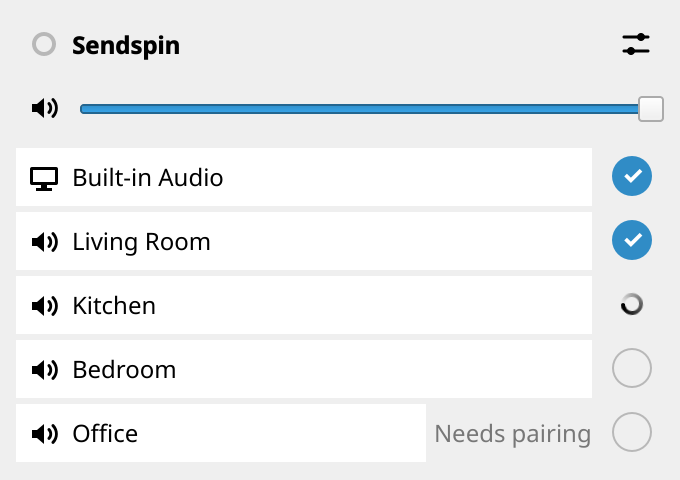
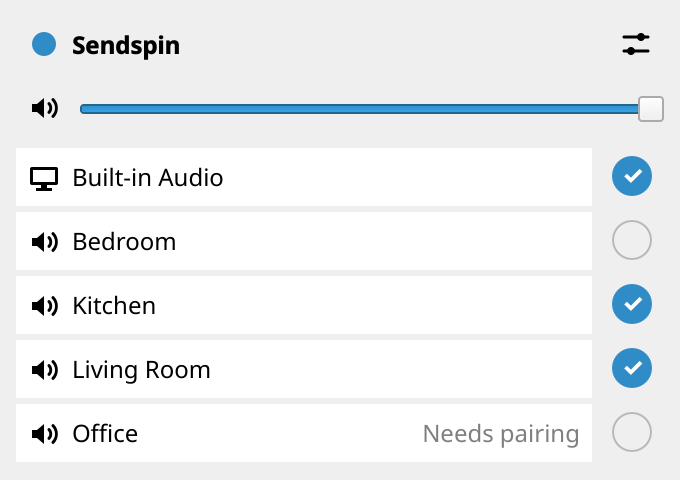
Review: the row keeps its width beside a status, a playing picture, the CI build
The status caption sat beside the row's name, which shrank to make room.
The picker's picture is now the real engine with stand-in speakers and a
tone, so its dot agrees with its rows. GitHub's runners refuse the
builder's FUSE mount.

diff --git a/src/picker/qml/OutputRow.qml b/src/picker/qml/OutputRow.qml
@@ -45,6 +45,7 @@ RowLayout {
     ItemDelegate {
         id: label
 
+        objectName: "name"
         Layout.fillWidth: true
         text: row.name
         icon.name: row.iconName
@@ -54,13 +55,21 @@ RowLayout {
 
         Accessible.name: row.accessibleName
         Accessible.description: qsTr("Play here only")
-    }
 
-    Label {
-        objectName: "status"
-        visible: text !== ""
-        text: row.warning ? qsTr("⚠ %1").arg(row.statusText) : row.statusText
-        color: palette.placeholderText
+        // Inside the row, which keeps its width whatever the status says
+        rightPadding: status.text !== "" ? status.implicitWidth + 2 * padding : padding
+
+        Label {
+            id: status
+
+            objectName: "status"
+            anchors.right: parent.right
+            anchors.rightMargin: label.padding
+            anchors.verticalCenter: parent.verticalCenter
+            visible: text !== ""
+            text: row.warning ? qsTr("⚠ %1").arg(row.statusText) : row.statusText
+            color: palette.placeholderText
+        }
     }
 
     AbstractButton {

diff --git a/scripts/render-screenshots.cpp b/scripts/render-screenshots.cpp
@@ -1,22 +1,65 @@
-// The metainfo's screenshots, drawn offscreen: the picker and Settings as the tests load them,
-// over rows that are made up. Nothing is started but PipeWire's listing of this PC's output,
-// so no speaker is dialled and no network is touched. Run by scripts/render-screenshots.sh.
+// The metainfo's screenshots, drawn offscreen from the windows' own QML, as the tests load it.
+// The picker is over the real engine and four stand-in speakers on the loopback interface, with
+// a tone going into the Sendspin output; Settings is over made-up rows. Nothing is advertised
+// or looked for, so no network is touched. Run by scripts/render-screenshots.sh.
 
 #include "app.h"
+#include "cast/test_peer.h"
 #include "picker/picker.h"
 #include "picker/picker_window.h"
 
 #include <QApplication>
+#include <QFile>
+#include <QProcess>
 #include <QSettings>
 #include <QStyleHints>
 #include <QTemporaryDir>
 #include <QTest>
+#include <QtEndian>
 
+#include <cmath>
 #include <cstdio>
+#include <numbers>
 
 using speaker_menu::Connection;
 
 namespace {
+
+constexpr int WAIT_MS = 15000;
+
+int fail(const char* what) {
+    std::fprintf(stderr, "render-screenshots: %s\n", what);
+    return 1;
+}
+
+bool save(QQuickWindow* window, const QString& path) {
+    // A frame or two for the icons and the layout to settle
+    QTest::qWait(500);
+    return window != nullptr && window->grabWindow().save(path);
+}
+
+/// A minute of a 440 Hz tone: 48 kHz, 16-bit, stereo
+bool write_tone(const QString& path) {
+    constexpr quint32 RATE = 48000;
+    constexpr quint32 BYTES = RATE * 60 * 4;
+    QByteArray wav;
+    QDataStream out(&wav, QIODevice::WriteOnly);
+    out.setByteOrder(QDataStream::LittleEndian);
+    out.writeRawData("RIFF", 4);
+    out << quint32{36 + BYTES};
+    out.writeRawData("WAVEfmt ", 8);
+    out << quint32{16} << quint16{1} << quint16{2} << RATE << quint32{RATE * 4} << quint16{4}
+        << quint16{16};
+    out.writeRawData("data", 4);
+    out << BYTES;
+    for (quint32 n = 0; n < RATE * 60; n++) {
+        const auto sample =
+            static_cast<qint16>(8000 * std::sin(2 * std::numbers::pi * 440 * n / RATE));
+        out << sample << sample;
+    }
+    QFile file(path);
+    return file.open(QIODevice::WriteOnly) && file.write(wav) == wav.size();
+}
 
 SpeakerRow speaker(const QString& name, bool paired, const speaker_menu::Output& output) {
     SpeakerRow row;
@@ -31,25 +74,83 @@ SpeakerRow speaker(const QString& name, bool paired, const speaker_menu::Output&
     return row;
 }
 
-/// One of each: playing, connecting, found, and found but not paired
-std::vector<SpeakerRow> speakers() {
-    return {
-        speaker("Living Room", true,
-                {.in_group = true, .plays = true, .connection = Connection::CONNECTED}),
-        speaker("Kitchen", true, {.in_group = true, .connection = Connection::CONNECTING}),
-        speaker("Bedroom", true, {.connection = Connection::WAITING}),
-        speaker("Office", false, {.connection = Connection::NEEDS_PAIRING}),
-    };
+/// The picker with sound going out: two speakers playing, one found, one that wants pairing
+int render_picker(const QString& work, const QString& path) {
+    const std::string data = (work + "/picker").toStdString();
+    const uint16_t ports[] = {free_port(), free_port(), free_port(), free_port()};
+    Peer living_room(work + "/living-room", ports[0], true, "Living Room");
+    Peer kitchen(work + "/kitchen", ports[1], true, "Kitchen");
+    const Peer bedroom(work + "/bedroom", ports[2], true, "Bedroom");
+    const Peer office(work + "/office", ports[3], false, "Office");
+
+    QStringList urls;
+    for (const uint16_t port : ports) {
+        urls.append(QStringLiteral("ws://127.0.0.1:%1/sendspin").arg(port));
+    }
+    {
+        QSettings settings(work + "/picker/cast.ini", QSettings::IniFormat);
+        settings.setValue("speaker_urls", urls);
+    }
+
+    ClientPersistence persistence(data);
+    Outputs outputs;
+    Client client({.name = "Study PC", .port = Client::free_port(), .advertise = false},
+                  &persistence);
+    SendspinOutput output;
+    CastEngine cast(data, output);
+    Picker picker(cast, client, outputs);
+    PickerWindow window(picker, cast);
+    // As the app does: what the Sendspin output captures goes to the speakers
+    output.set_consumer([&cast](const CapturedBlock& block) { cast.feed().take(block); });
+    if (!output.start() || !outputs.start() ||
+        !QTest::qWaitFor([&] { return outputs.local().has_value(); }, WAIT_MS)) {
+        return fail("no PipeWire: run it through scripts/render-screenshots.sh");
+    }
+    if (!cast.start(free_port(), false) ||
+        !QTest::qWaitFor([&] { return cast.speakers()->rows().size() == 4; }, WAIT_MS)) {
+        return fail("the stand-in speakers did not connect");
+    }
+    picker.toggle(living_room.id());
+    picker.toggle(kitchen.id());
+
+    QProcess tone;
+    if (!write_tone(work + "/tone.wav")) {
+        return fail("no tone to play");
+    }
+    tone.start("pw-play", {"--target", "sendspin", work + "/tone.wav"});
+    const bool plays =
+        QTest::qWaitFor([&] { return picker.dot() == Picker::Dot::Plays; }, WAIT_MS) &&
+        QTest::qWaitFor(
+            [&] {
+                return std::ranges::count(cast.speakers()->rows(), true, &SpeakerRow::plays) == 2;
+            },
+            WAIT_MS);
+    if (plays) {
+        window.show();
+    }
+    const bool saved = plays && save(window.window(), path);
+    tone.kill();
+    tone.waitForFinished();
+    return saved ? 0 : fail("the picker never showed Sendspin playing");
 }
 
-bool save(QQuickWindow* window, const QString& path) {
-    // A frame or two for the icons and the layout to settle
-    QTest::qWait(500);
-    if (window == nullptr || !window->grabWindow().save(path)) {
-        std::fprintf(stderr, "render-screenshots: no %s\n", qPrintable(path));
-        return false;
+/// Settings on its Speakers section, no taller than what it shows
+int render_settings(const QString& work, const QString& path) {
+    App app((work + "/settings").toStdString());
+    app.cast()->speakers()->set_rows({
+        speaker("Living Room", true, {.in_group = true, .plays = true}),
+        speaker("Kitchen", true, {.in_group = true, .plays = true}),
+        speaker("Bedroom", true, {.connection = Connection::WAITING}),
+        speaker("Office", false, {.connection = Connection::NEEDS_PAIRING}),
+    });
+    app.showSettings();
+    QQuickWindow* window = app.settings_window();
+    if (window == nullptr) {
+        return fail("Settings did not load");
     }
-    return true;
+    window->setProperty("section", 1);
+    window->setHeight(window->minimumHeight());
+    return save(window, path) ? 0 : fail("no picture of Settings");
 }
 
 }  // namespace
@@ -70,36 +171,9 @@ int main(int argc, char** argv) {
     QSettings::setPath(QSettings::NativeFormat, QSettings::UserScope, dir.path() + "/config");
     QSettings(QStringLiteral("sendspin"), QStringLiteral("sendspin"))
         .setValue("client/name", QStringLiteral("Study PC"));
-    const std::string data = (dir.path() + "/data").toStdString();
 
-    {
-        ClientPersistence persistence(data);
-        Outputs outputs;
-        Client client({.name = "Study PC", .port = Client::free_port(), .advertise = false},
-                      &persistence);
-        SendspinOutput output;
-        CastEngine cast(data, output);
-        Picker picker(cast, client, outputs);
-        PickerWindow window(picker, cast);
-        // Without its output listed the picker has a notice in place of its rows
-        if (!outputs.start() || !QTest::qWaitFor([&] { return outputs.local().has_value(); })) {
-            std::fputs("render-screenshots: no PipeWire output to list\n", stderr);
-            return 1;
-        }
-        cast.speakers()->set_rows(speakers());
-        window.show();
-        if (!save(window.window(), out + "/picker.png")) {
-            return 1;
-        }
+    if (const int failed = render_picker(dir.path(), out + "/picker.png")) {
+        return failed;
     }
-
-    App app(data);
-    app.cast()->speakers()->set_rows(speakers());
-    app.showSettings();
-    QQuickWindow* settings = app.settings_window();
-    if (settings != nullptr) {
-        // Speakers
-        settings->setProperty("section", 1);
-    }
-    return save(settings, out + "/settings.png") ? 0 : 1;
+    return render_settings(dir.path(), out + "/settings.png");
 }

diff --git a/src/picker/picker_test.cpp b/src/picker/picker_test.cpp
@@ -226,6 +226,29 @@ private slots:
         QVERIFY(Rig::find(row, "check")->isEnabled());
     }
 
+    // A status is said inside the row: it takes none of the row's width
+    void aStatusLeavesTheRowItsWidth() {
+        Rig rig;
+        rig.list({{"Kitchen", found(Connection::WAITING)},
+                  {"Office", found(Connection::NEEDS_PAIRING)}});
+        QList<QQuickItem*> names;
+        QList<QQuickItem*> statuses;
+        for (QQuickItem* row : rig.item("rows")->childItems()) {
+            if (row->objectName() == "speakerRow") {
+                names.append(Rig::find(row, "name"));
+                statuses.append(Rig::find(row, "status"));
+            }
+        }
+        QCOMPARE(names.size(), 2);
+        QCOMPARE(statuses[0]->property("text").toString(), "");
+        QCOMPARE(statuses[1]->property("text").toString(), "Needs pairing");
+        QTRY_VERIFY(names[0]->width() > 0);
+        QCOMPARE(names[1]->width(), names[0]->width());
+        QCOMPARE(statuses[1]->parentItem(), names[1]);
+        // And the name stops short of it
+        QVERIFY(names[1]->property("rightPadding").toReal() > statuses[1]->width());
+    }
+
     void aRowFollowsItsSpeaker() {
         Rig rig;
         rig.list({{"Kitchen", added(Connection::CONNECTING)}});

diff --git a/flatpak/FLATHUB.md b/flatpak/FLATHUB.md
@@ -23,8 +23,13 @@ After the first release is published, so that the tarball's URL answers:
 4. When it is merged, Flathub creates `flathub/com.sendspin_audio.Sendspin` and invites the
    submitter, whose GitHub account needs two-factor authentication. The app is published a
    few hours after.
-5. Verify the app from its page on flathub.org: the ID's domain is `sendspin-audio.com`, and
-   Flathub asks for a token at `https://sendspin-audio.com/.well-known/org.flathub.VerifiedApps.txt`.
+5. Verify the app: on flathub.org, signed in as the submitter, the app's website verification
+   gives a token for the ID's domain, `sendspin-audio.com`.
+6. Publish the token: add it as a line of `.well-known/org.flathub.VerifiedApps.txt` in
+   [Sendspin/sendspin-audio.com](https://github.com/Sendspin/sendspin-audio.com), the
+   website's repository, and once the site is deployed and
+   `https://sendspin-audio.com/.well-known/org.flathub.VerifiedApps.txt` answers with it, press
+   Verify on flathub.org.
 
 Flathub builds for x86_64 and aarch64. CI builds x86_64 only: if the aarch64 test build fails
 and can't be fixed in time, a `flathub.json` with `{"only-arches": ["x86_64"]}` next to the
@@ -41,7 +46,6 @@ reviewer reads them all the same (`docs/SPEC.md`, "Install methods"):
 | `--system-talk-name=org.freedesktop.Avahi` | Finds the speakers and advertises this PC to Music Assistant, over mDNS. |
 | `--share=network` | Serves the speakers and dials them; connects to Music Assistant. |
 | `--talk-name=org.kde.StatusNotifierWatcher` | The tray icon. |
-| `--talk-name=org.freedesktop.Notifications` | The pairing code. It goes once the notification goes through the portal ([#15](https://github.com/Sendspin/sendspin-for-linux/issues/15)). |
 
 ## Each release
 
@@ -64,7 +68,7 @@ dated by the tagged commit (`RELEASE_DATE` in the tarball), not by Flathub's bui
 
 The screenshots are `data/screenshots/picker.png` and `settings.png`, linked by the release's
 tag. `scripts/render-screenshots.sh` draws them offscreen from the windows' own QML, over
-made-up speakers: run it when a window changes, and commit the result. Pictures taken on a
+stand-in speakers on the loopback interface: run it when a window changes, and commit the result. Pictures taken on a
 desktop can replace them under the same names.
 
 ## Trying it here
